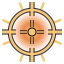
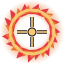
feat: ring of fire on the shot cursor and roomier button groups
- The shot cursor lights the crosshair ring on fire again, drawn in the
  brand colors by brand/tools/cursors.py
- Button groups get 16px between buttons

diff --git a/src/components/button-group/button-group.scss b/src/components/button-group/button-group.scss
@@ -2,7 +2,7 @@
   display: inline-flex;
   flex-wrap: wrap;
   align-items: center;
-  gap: 8px;
+  gap: 16px;
 
   &.bh-button-group--flex {
     display: flex;

diff --git a/brand/tools/cursors.py b/brand/tools/cursors.py
@@ -27,20 +27,54 @@ def bump(shapes, extra):
 def svg(body):
     return f'<svg xmlns="http://www.w3.org/2000/svg" viewBox="-32 -32 64 64" width="{SIZE}" height="{SIZE}">{body}</svg>'
 
+def flame(angle, base_r, length, half_width, lean):
+    """One flame tongue rooted at base_r, pointing outward and leaning sideways by lean degrees."""
+    import math
+    def pt(r, a):
+        t = math.radians(a - 90)
+        return f'{r * math.cos(t):.2f},{r * math.sin(t):.2f}'
+    tip = base_r + length
+    return (f'M{pt(base_r, angle - half_width)} '
+            f'C{pt(base_r + length * 0.45, angle - half_width * 0.8 + lean * 0.4)} '
+            f'{pt(base_r + length * 0.8, angle + lean * 0.7)} {pt(tip, angle + lean)} '
+            f'C{pt(base_r + length * 0.6, angle + half_width * 0.5 + lean * 0.6)} '
+            f'{pt(base_r + length * 0.3, angle + half_width)} {pt(base_r, angle + half_width)} Z')
+
+def fire_ring():
+    """A ring of fire in place of the crosshair ring: red tips, ember body, moon core."""
+    seed = 11
+    def rnd():
+        nonlocal seed
+        seed = (seed * 1103515245 + 12345) % 2**31
+        return seed / 2**31
+    def layer(count, base_r, min_len, var_len, half_width, offset):
+        step = 360 / count
+        return ' '.join(flame(i * step + offset + (rnd() - 0.5) * step * 0.5, base_r,
+                              min_len + rnd() * var_len, half_width, 9 + rnd() * 8)
+                        for i in range(count))
+    return (f'<defs><radialGradient id="halo" gradientUnits="userSpaceOnUse" cx="0" cy="0" r="32">'
+            f'<stop offset="0.45" stop-color="{EMBER}" stop-opacity="0"/>'
+            f'<stop offset="0.68" stop-color="{EMBER}" stop-opacity="0.55"/>'
+            f'<stop offset="1" stop-color="{EMBER}" stop-opacity="0"/></radialGradient></defs>'
+            f'<circle r="32" fill="url(#halo)"/>'
+            f'<path d="{layer(14, 18.5, 9, 4, 15, 0)}" fill="{RED}"/>'
+            f'<path d="{layer(14, 19.5, 6, 3, 12, 12)}" fill="{EMBER}"/>'
+            f'<path d="{layer(12, 20.5, 3, 2, 10, 6)}" fill="{MOON}"/>'
+            f'<circle r="22" fill="none" stroke="{MOON}" stroke-width="2.6"/>')
+
+def crosshair(color):
+    """Thin cross with a center gap, with the dark halo for contrast."""
+    lines = '<path d="M0,-15 V-5 M0,5 V15 M-15,0 H-5 M5,0 H15" stroke-width="1.6"/>'
+    return (f'<g fill="none" stroke="{INK}" stroke-opacity="0.8">{bump(lines, 2.2)}</g>'
+            f'<g fill="none" stroke="{color}">{lines}</g>')
+
 CURSORS = {
     # Default crosshair
     'aim': svg(reticle(BONE)),
     # Over a bat: target locked
     'aim-target': svg(reticle(RED, ring=3) + f'<circle r="3.2" fill="{RED}" stroke="{INK}" stroke-width="1"/>'),
-    # Shot: a short muzzle flash
-    'aim-shot': svg(
-        f'<defs><radialGradient id="f"><stop offset="0" stop-color="{MOON}"/>'
-        f'<stop offset="0.45" stop-color="{EMBER}" stop-opacity="0.85"/>'
-        f'<stop offset="1" stop-color="{EMBER}" stop-opacity="0"/></radialGradient></defs>'
-        f'<circle r="20" fill="url(#f)"/>'
-        + ''.join(f'<path d="M0,-25 V-31" stroke="{MOON}" stroke-width="2.4" stroke-linecap="round" transform="rotate({a})"/>'
-                  for a in range(22, 360, 45))
-        + reticle(MOON) + f'<circle r="4" fill="{MOON}" stroke="{INK}" stroke-width="1"/>'),
+    # Shot: the crosshair catches fire for a moment
+    'aim-shot': svg(fire_ring() + crosshair(MOON) + f'<circle r="4" fill="{MOON}" stroke="{INK}" stroke-width="1"/>'),
 }
 
 if __name__ == '__main__':
